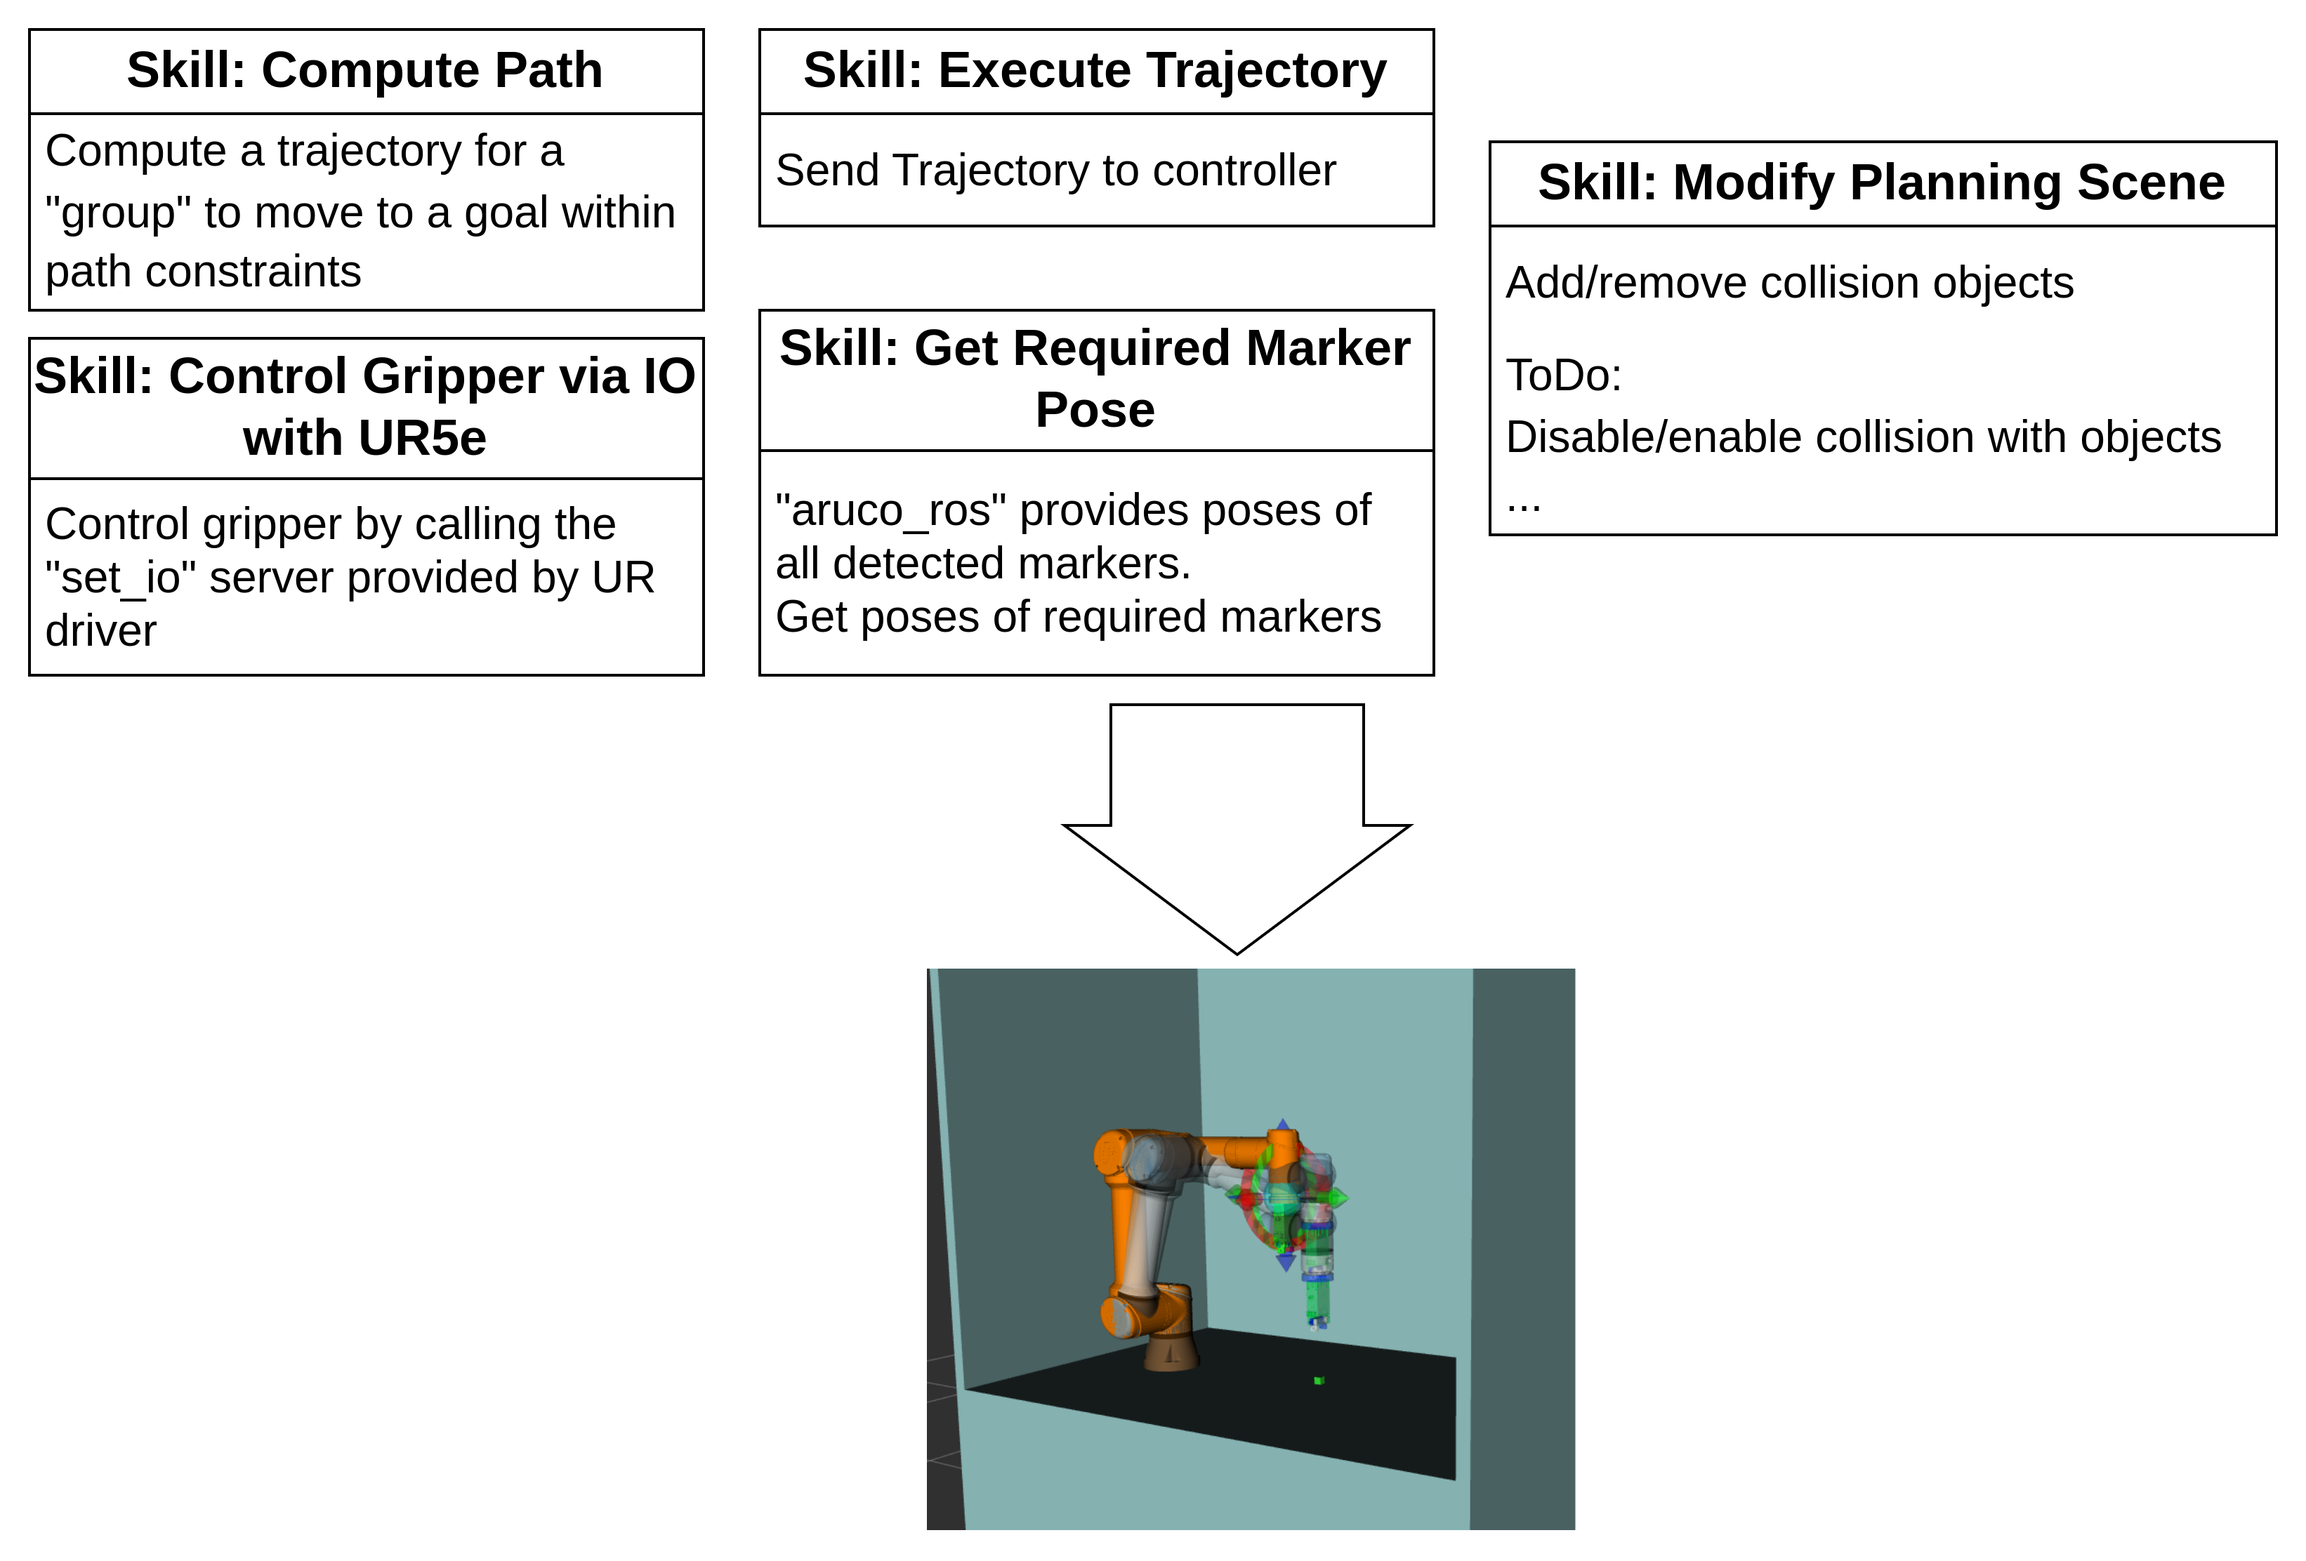
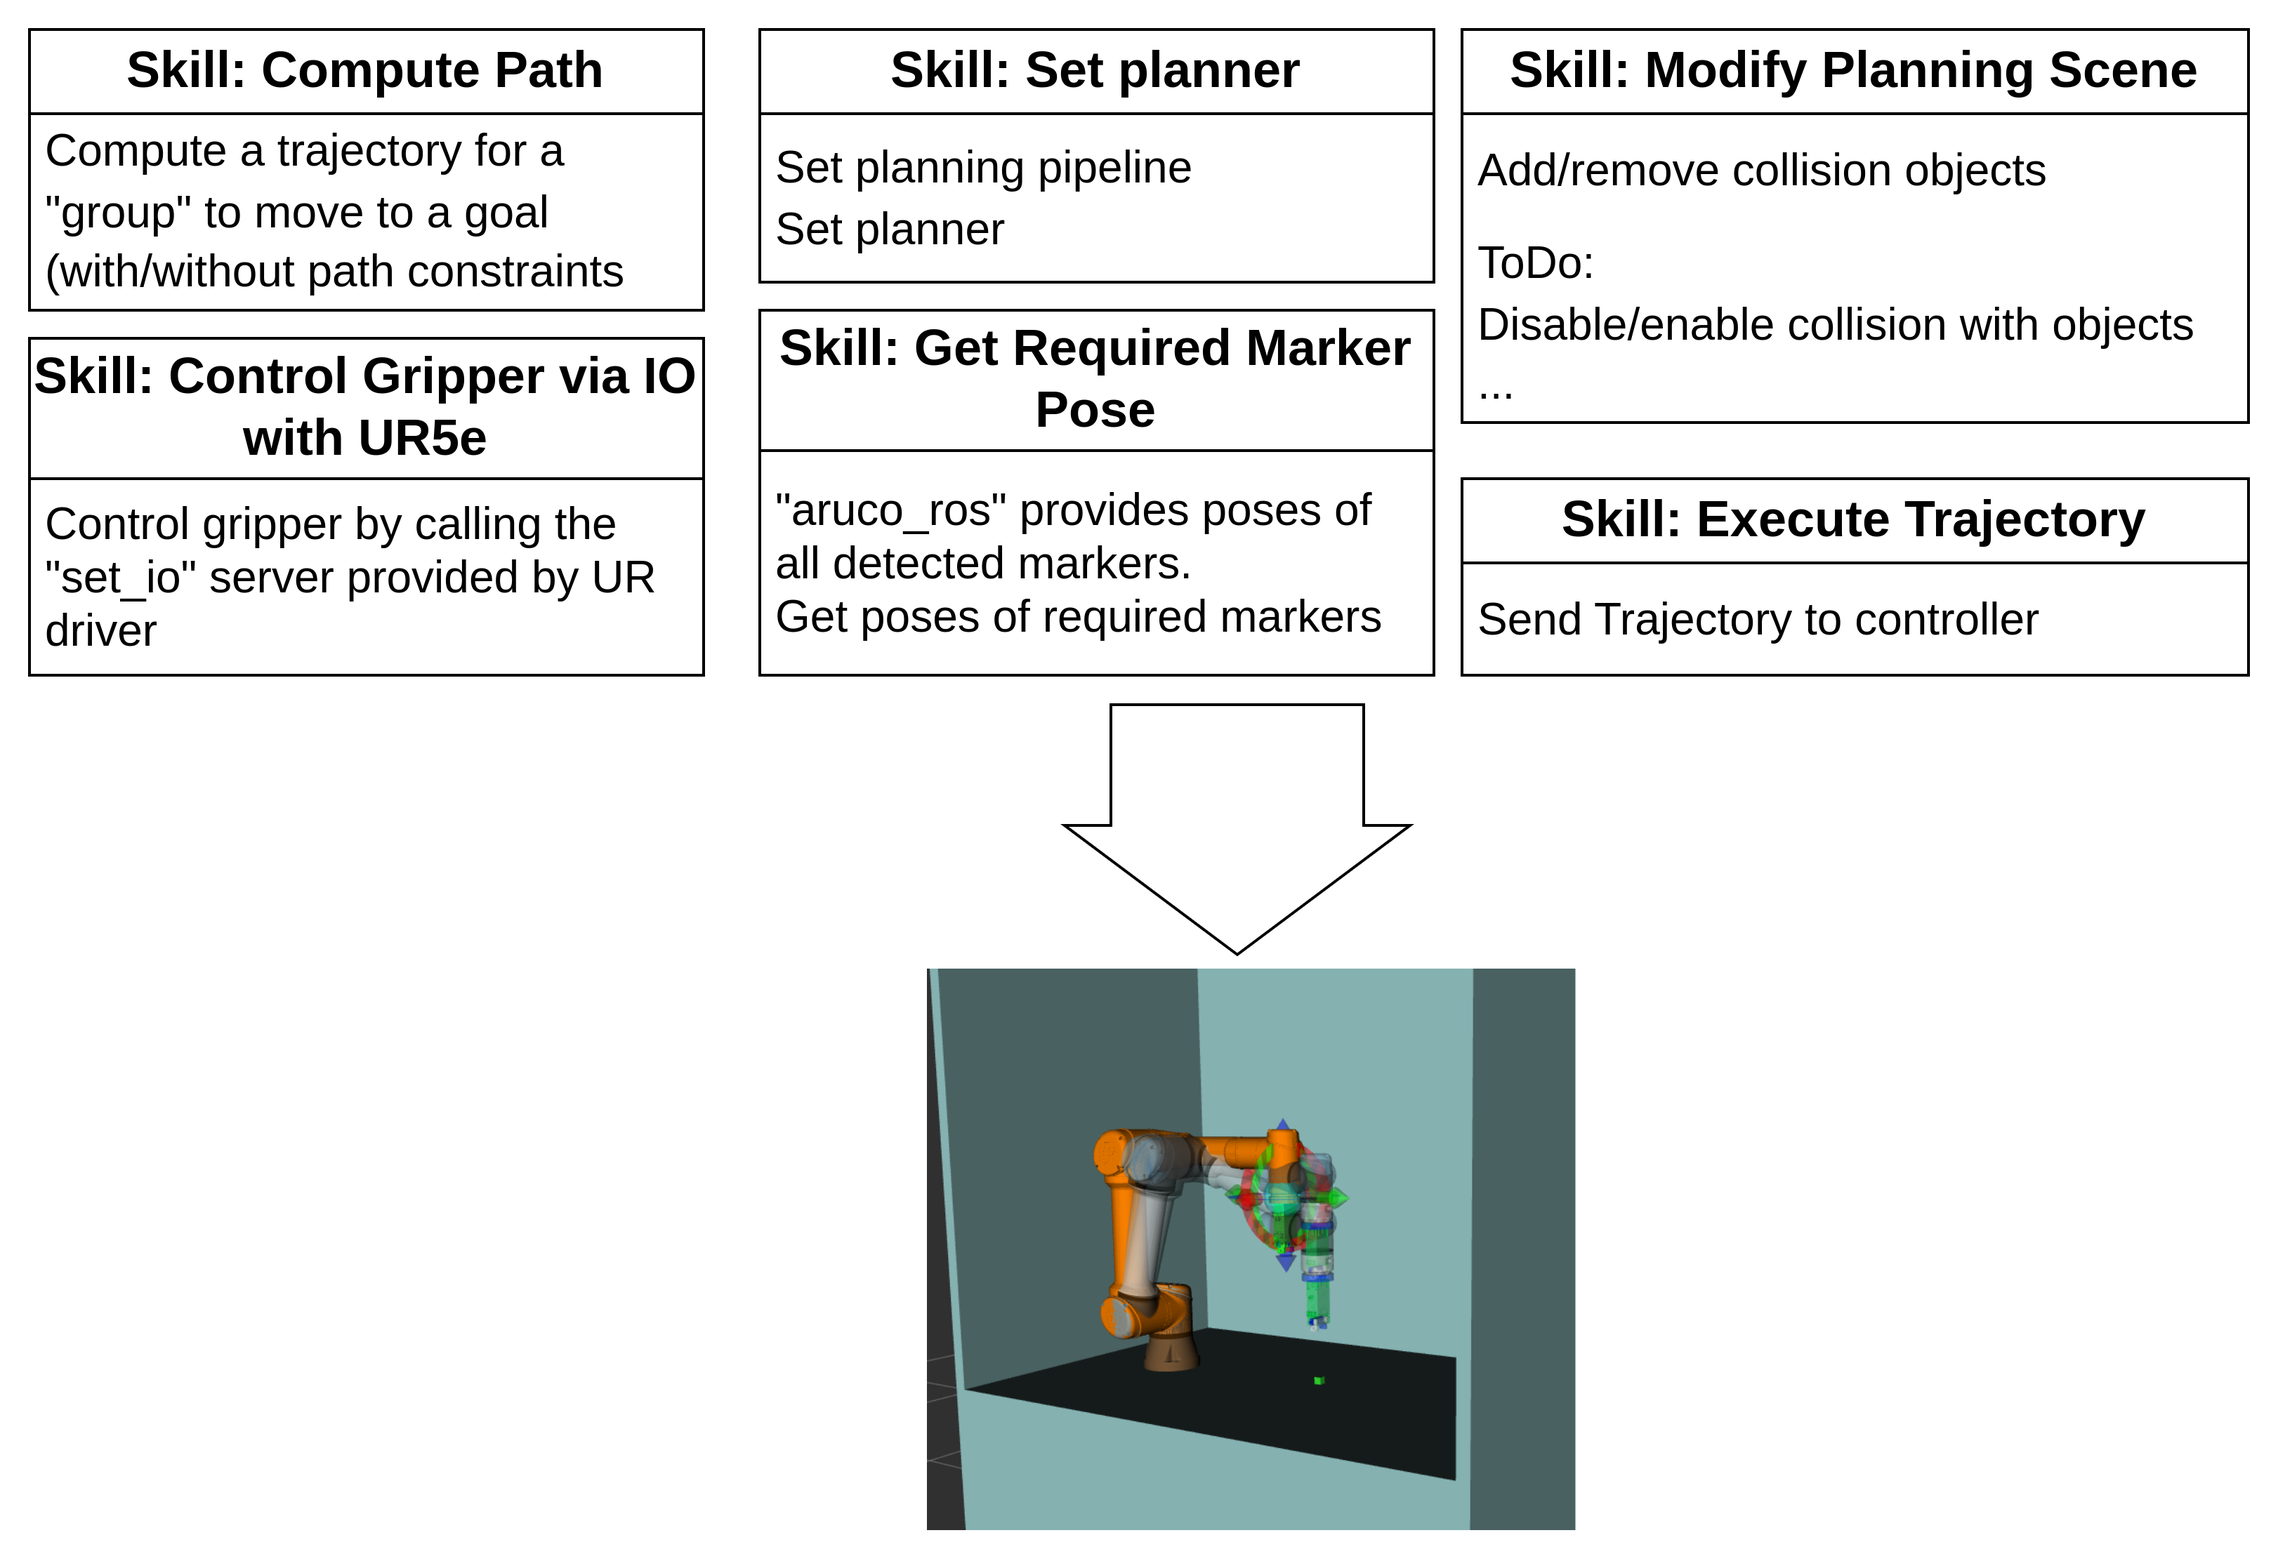
update pick place with marker

diff --git a/advanced_applicaiton_examples/slides/2.pick_place_with_markers.html b/advanced_applicaiton_examples/slides/2.pick_place_with_markers.html
@@ -64,7 +64,7 @@ Composing an application with skills
 
 ## Skills: Compute path
 
-Compute a trajectory for a "group" to move to a goal within path constraints by implementing MoveitCPP, PlanningSceneMonitor, PlanningComponent
+Compute a trajectory for a "group" to move to a goal (with/without path constraints) by implementing MoveitCPP, PlanningSceneMonitor, PlanningComponent
 
 - Input:
   - group name
